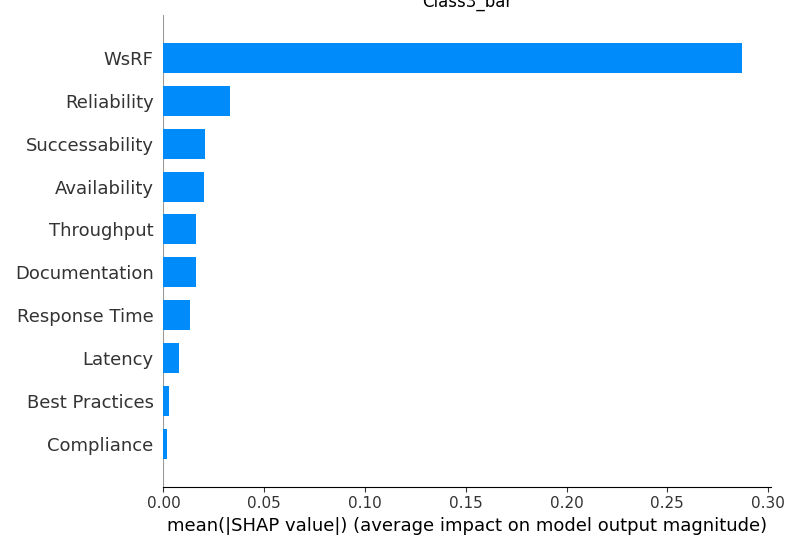
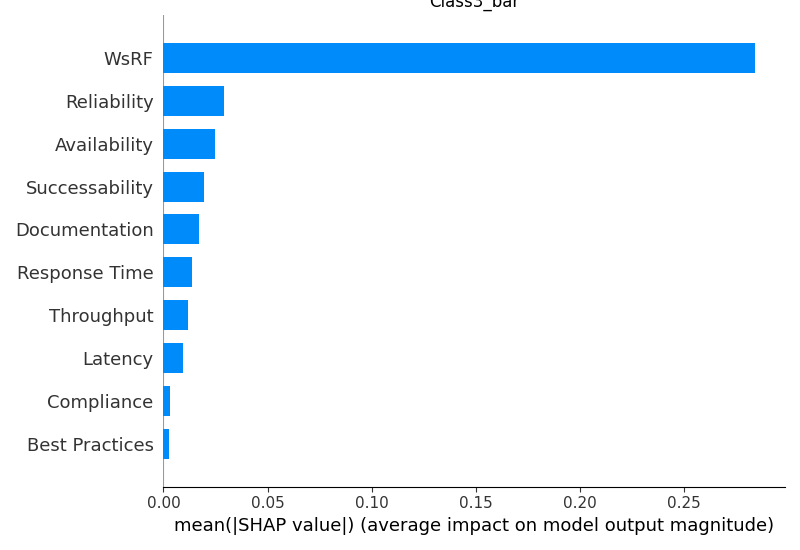
SKLearn

diff --git a/QOS/TrainTestSplit/SKLearn.py b/QOS/TrainTestSplit/SKLearn.py
@@ -8,9 +8,12 @@
 
 import pandas as pd
 import numpy as np
+from numba.core.ir import Print
 from sklearn.model_selection import train_test_split
 from sklearn.linear_model import LinearRegression, LogisticRegression
 import matplotlib.pyplot as plt
+import xgboost
+import seaborn as sns
 
 
 ###  START IMPORT DATASET ###
@@ -31,13 +34,17 @@ for i in df.columns:
 
 
 #Cleaning unecessary columns
-X = df.drop(columns=['Class','Service Name', 'WSDL Address'])
+#dropping target data into feature data variable and extra unecessary colunms
+X = df.drop(columns=['Class','Service Name', 'WSDL Address'],axis=1)
 y = df['Class']
 
 
 #
 ##
 ### END IMPORT DATASET ###
+
+
+
 
 ### START SPLIT DATASET ###
 ##
@@ -46,18 +53,42 @@ y = df['Class']
 
 X_train, X_test, y_train, y_test = train_test_split(X, y, test_size = 0.2, random_state = 11)
 
-print("Training set shape : ", X_train.shape, y_train.shape)
+### PREPROCESSING DATA ###
+##
+#
 
-print("Test set shape : " , X_test.shape, y_test.shape)
+#PREPROCESSING after getting this error "ValueError: Invalid classes inferred from unique values of `y`.  Expected: [0 1 2 3], got [1 2 3 4]" on XGBoost Model , might as well apply for all
+
+from sklearn.preprocessing import LabelEncoder
+
+le = LabelEncoder()
+y_train_encoded = le.fit_transform(y_train)
+
+y_test_encoded = le.fit_transform(y_test)
+
+
+#
+##
+### END PREPROCESSING DATA ###
+
+print("Training set shape : ", X_train.shape, y_train_encoded.shape)
+
+print("Test set shape : " , X_test.shape, y_test_encoded.shape)
+
 
 
 #
 ##
 ### END SPLIT DATASET ###
 
+""""
 ### START LINEAR REGRESSION MODEL #####
 ##
 #
+
+
+#This model doesn't fit our needs since we are looking into classification, this model will return non integer numbers and must be used for other purposes (finding exact values instead of classification)
+
 
 regLin = LinearRegression(fit_intercept = True)
 
@@ -71,10 +102,10 @@ print(y_predLin)
 
 #Compare with test set results from dataset and measure performance
 #put output from test Y prediction into np array to compare them (rounding the second np to 0
-if np.array_equal(np.array(y_test), np.array(y_predLin).round(0)) == False:
+if np.array_equal(np.array(y_test_encoded), np.array(y_predLin).round(0)) == False:
     print("dont match");
     #count non zero so good result
-    print("Percentage of match of the model vs the dataset results ", ((np.count_nonzero(np.array(y_test) == np.array(y_predLin))) / np.size(np.array(y_test) == np.array(y_predLin)) * 100).round() , "%")
+    print("Percentage of match of the model vs the dataset results ", ((np.count_nonzero(np.array(y_test_encoded) == np.array(y_predLin))) / np.size(np.array(y_test_encoded) == np.array(y_predLin)) * 100).round() , "%")
 
 else:
     # match is 100%
@@ -84,30 +115,39 @@ else:
 # all prediction classifications matches the values from the y_test value confirming our model works perfectly with Linear Regression
 #Measuring performance on test set
 print("test training over the test set")
-score = regLin.score(X_test, y_test)
+score = regLin.score(X_test, y_test_encoded)
 print(score)
 print("end linear ML")
 #
 ##
 ### END LINEAR REGRESSION MODEL ###
 
+"""""
 
 ### START LOGISTIC REGRESSION MODEL ###
 ##
 #
 
 regLog = LogisticRegression()
-regLog.fit(X_train, y_train)
+regLog.fit(X_train, y_train_encoded)
 
 y_predLog = regLog.predict(X_test)
 
+#Get SCORE
+
+score = regLog.score(X_test, y_test_encoded)
+
+print ("Logistic Regression model score : ", (score * 100).__round__(3) , "%")
+
+
+""""
 #comparing tables
 
-np.array_equal(np.array(y_test), np.array(y_predLog))
+np.array_equal(np.array(y_test_encoded), np.array(y_predLog))
 
 #getting % of diff
 
-np.array(y_test) == np.array(y_predLog)
+np.array(y_test_encoded) == np.array(y_predLog)
 
 print("prediction values from model output Logistic Regression")
 print(y_predLog)
@@ -116,21 +156,35 @@ print(y_predLog)
 #then compare with test set results from dataset and measure performance
 #put output from test Y prediction into np array to compare them
 
-compare = np.array(y_test) == np.array(y_predLog)
+compare = np.array(y_test_encoded) == np.array(y_predLog)
 
-np.array_equal(np.array(y_test), np.array(y_predLog))
+np.array_equal(np.array(y_test_encoded), np.array(y_predLog))
 #dont match so model is not 100% accurate
-if np.array_equal(np.array(y_test), np.array(y_predLog)) == False:
+if np.array_equal(np.array(y_test_encoded), np.array(y_predLog)) == False:
     print("dont match");
     #count non zero so good result
-    print("Percentage of match of the model vs the dataset results ", ((np.count_nonzero(np.array(y_test) == np.array(y_predLog))) / np.size(np.array(y_test) == np.array(y_predLog)) * 100).round() , "%")
+    print("Percentage of match of the model vs the dataset results ", ((np.count_nonzero(np.array(y_test_encoded) == np.array(y_predLog))) / np.size(np.array(y_test_encoded) == np.array(y_predLog)) * 100).round() , "%")
 
-    np.size(np.array(y_test) == np.array(y_predLog))
+    np.size(np.array(y_test_encoded) == np.array(y_predLog))
 
 print("fin")
 
-# all prediction classifications matches the values from the y_test value confirming our model works perfectly with Linear Regression
-#Measuring performance on test set
+"""
+
+# START COMPUTE CONFUSION MATRIX
+
+from sklearn.metrics import accuracy_score, confusion_matrix, precision_score, recall_score, ConfusionMatrixDisplay, classification_report
+
+conf_matrix = confusion_matrix(y_test_encoded, y_predLog)
+print("Confusion Matrix Logistic Regression Model")
+print(conf_matrix)
+
+# Classification Report
+class_report = classification_report(y_predLog, y_test_encoded)
+print("Classification Random Forest model")
+print(class_report)
+
+print("pause")
 
 #
 ##
@@ -144,10 +198,9 @@ print("fin")
 import pandas as pd
 import numpy as np
 
-# Modelling
+# Modeling
 from sklearn.ensemble import RandomForestClassifier
-from sklearn.metrics import accuracy_score, confusion_matrix, precision_score, recall_score, ConfusionMatrixDisplay, \
-    classification_report
+from sklearn.metrics import accuracy_score, confusion_matrix, precision_score, recall_score, ConfusionMatrixDisplay, classification_report
 from sklearn.model_selection import RandomizedSearchCV, train_test_split
 from scipy.stats import randint
 
@@ -157,28 +210,25 @@ from IPython.display import Image
 import graphviz
 
 clf = RandomForestClassifier()
-clf.fit(X_train, y_train)
+clf.fit(X_train, y_train_encoded)
 
 # Make prediction on the testing data
 y_pred = clf.predict(X_test)
 
-#Get accuract score
-accuracy = accuracy_score(y_test, y_pred)
-print("Accuracy:", accuracy)
+#Get accuracy score
+score = accuracy_score(y_test_encoded, y_pred)
 
+print ("Random Forest Classification model score : ", (score * 100).__round__(3) , "%")
 
 #COMPUTE CONFUSION MATRIX
-
-conf_matrix = confusion_matrix(y_test, y_pred)
-print("Confusion Matrix  Random Forest Classifier Model")
+conf_matrix = confusion_matrix(y_test_encoded, y_pred)
+print("Confusion Matrix  Random Forest Classifier Model : ")
 print(conf_matrix)
 
 # Classification Report
-class_report = classification_report(y_pred, y_test)
-print("Classification Random Forest model")
+class_report = classification_report(y_pred, y_test_encoded)
+print("Classification Random Forest model : ")
 print(class_report)
-
-
 
 #
 ##
@@ -186,9 +236,9 @@ print(class_report)
 
 
 ### START SHAP INTERPRETATION  ###
-###
 ##
 #
+
 
 import shap
 from sklearn.metrics import classification_report
@@ -203,49 +253,58 @@ shap_values = explainer.shap_values(X_test)
 #Applying a small trick to be able to have the title in the plot, the title argument in the summary_plot doesn't work
 #Also the category is in reality the index +1 so we have to make the changes when printing the output to have the good class. Index 0 is Class 1, index 1 is class 2, index 2 is class 3 ,  index 3 is class 4
 
-#Class 1
-#Bar plot
+#CREATE PLOTS
+
+#CLASS 1
+#BAR PLOT
 bar_plot = shap.summary_plot(shap_values[:,:,0], X_test,plot_type="bar",show=False)
 plt.title('Class1_bar')
 plt.savefig('Class1_bar.png')
 plt.close()
-#Heat point plot
+
+#HEAT POINT PLOT
 point_plot = shap.summary_plot(shap_values[:,:,0], X_test,show=False)
 plt.title('Class1_points')
 plt.savefig('Class1_points.png')
 plt.close()
 
-#Class 2
-#Bar plot
+#CLASS 2
+
+#BAR PLOT
 bar_plot = shap.summary_plot(shap_values[:,:,1], X_test,plot_type="bar",show=False)
 plt.title('Class2_bar')
 plt.savefig('Class2_bar.png')
 plt.close()
-#Heat point plot
+
+#HEAT POINT PLOT
 point_plot = shap.summary_plot(shap_values[:,:,1], X_test,show=False)
 plt.title('Class2_points')
 plt.savefig('Class2_points.png')
 plt.close()
 
-#Class 3
-#Bar plot
+#CLASS 3
+
+#BAR PLOT
 bar_plot = shap.summary_plot(shap_values[:,:,2], X_test,plot_type="bar",show=False)
 plt.title('Class3_bar')
 plt.savefig('Class3_bar.png')
 plt.close()
-#Heat point plot
+
+#HEAT POINT PLOT
 point_plot = shap.summary_plot(shap_values[:,:,2], X_test,show=False)
 plt.title('Class3_points')
 plt.savefig('Class3_points.png')
 plt.close()
 
-#Class 4
-#Bar plot
+#CLASS 4
+
+#BAR PLOT
 bar_plot = shap.summary_plot(shap_values[:,:,3], X_test,plot_type="bar",show=False)
 plt.title('Class4_bar')
 plt.savefig('Class4_bar.png')
 plt.close()
-#Heat point plot
+
+#HEAT POINT PLOT
 point_plot = shap.summary_plot(shap_values[:,:,1], X_test,show=False)
 plt.title('Class4_points')
 plt.savefig('Class4_points.png')
@@ -256,18 +315,36 @@ plt.close()
 ###
 #### END SHAP INTERPRETATION ####
 
+### XGBOOST MODEL ###
+##
+#
 
 import xgboost
-
 import shap
 
-# train XGBoost model
-X, y = shap.datasets.adult()
-model = xgboost.XGBClassifier().fit(X, y)
 
-# compute SHAP values
-explainer = shap.Explainer(model, X)
-shap_values = explainer(X)
+# Fit XGBoost model
+model = xgboost.XGBClassifier()
+model.fit(X_train, y_train_encoded)
+
+#Predicting the Test set resuls
+
+y_pred = model.predict(X_test)
+
+#Evaluate the classifier on the test data
+
+from sklearn.metrics import accuracy_score
+accuracy = accuracy_score(y_test_encoded, y_pred)
+
+print("Accuracy = ", (accuracy * 100.0 ).__round__(3), "%")
+
+
+# CONFUSION MATRIX
+from sklearn.metrics import confusion_matrix
+conf_matrix = confusion_matrix(y_test_encoded, y_pred)
+
+sns.heatmap(conf_matrix, annot=True)
+
 
 ###PIPELINE CREATION
 
